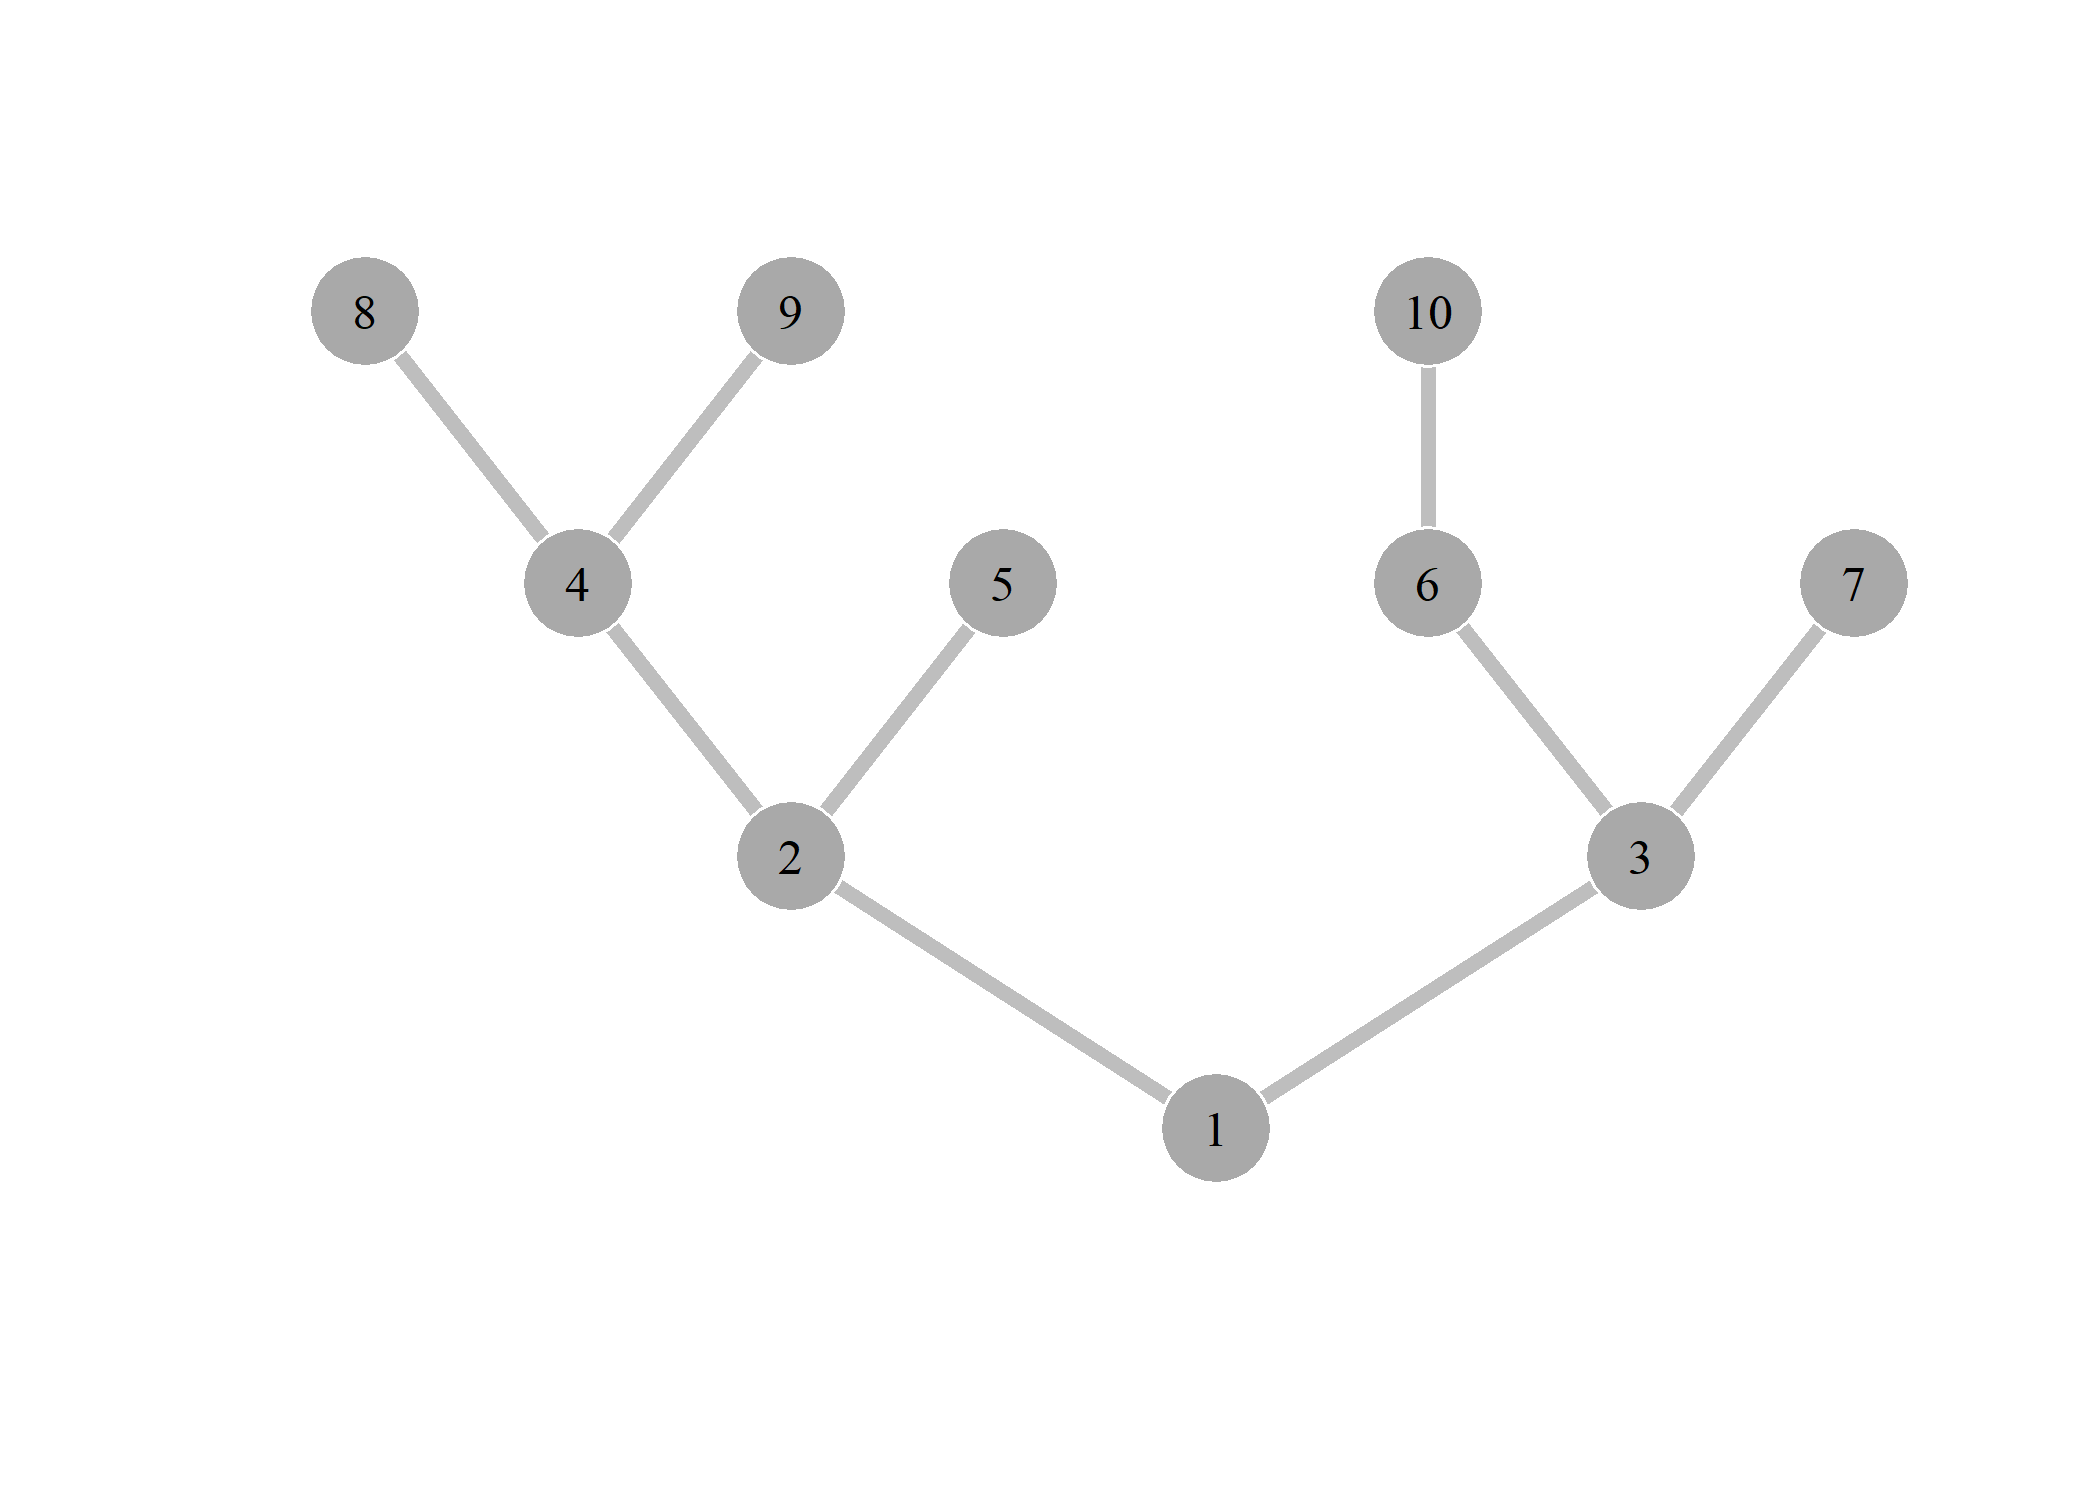
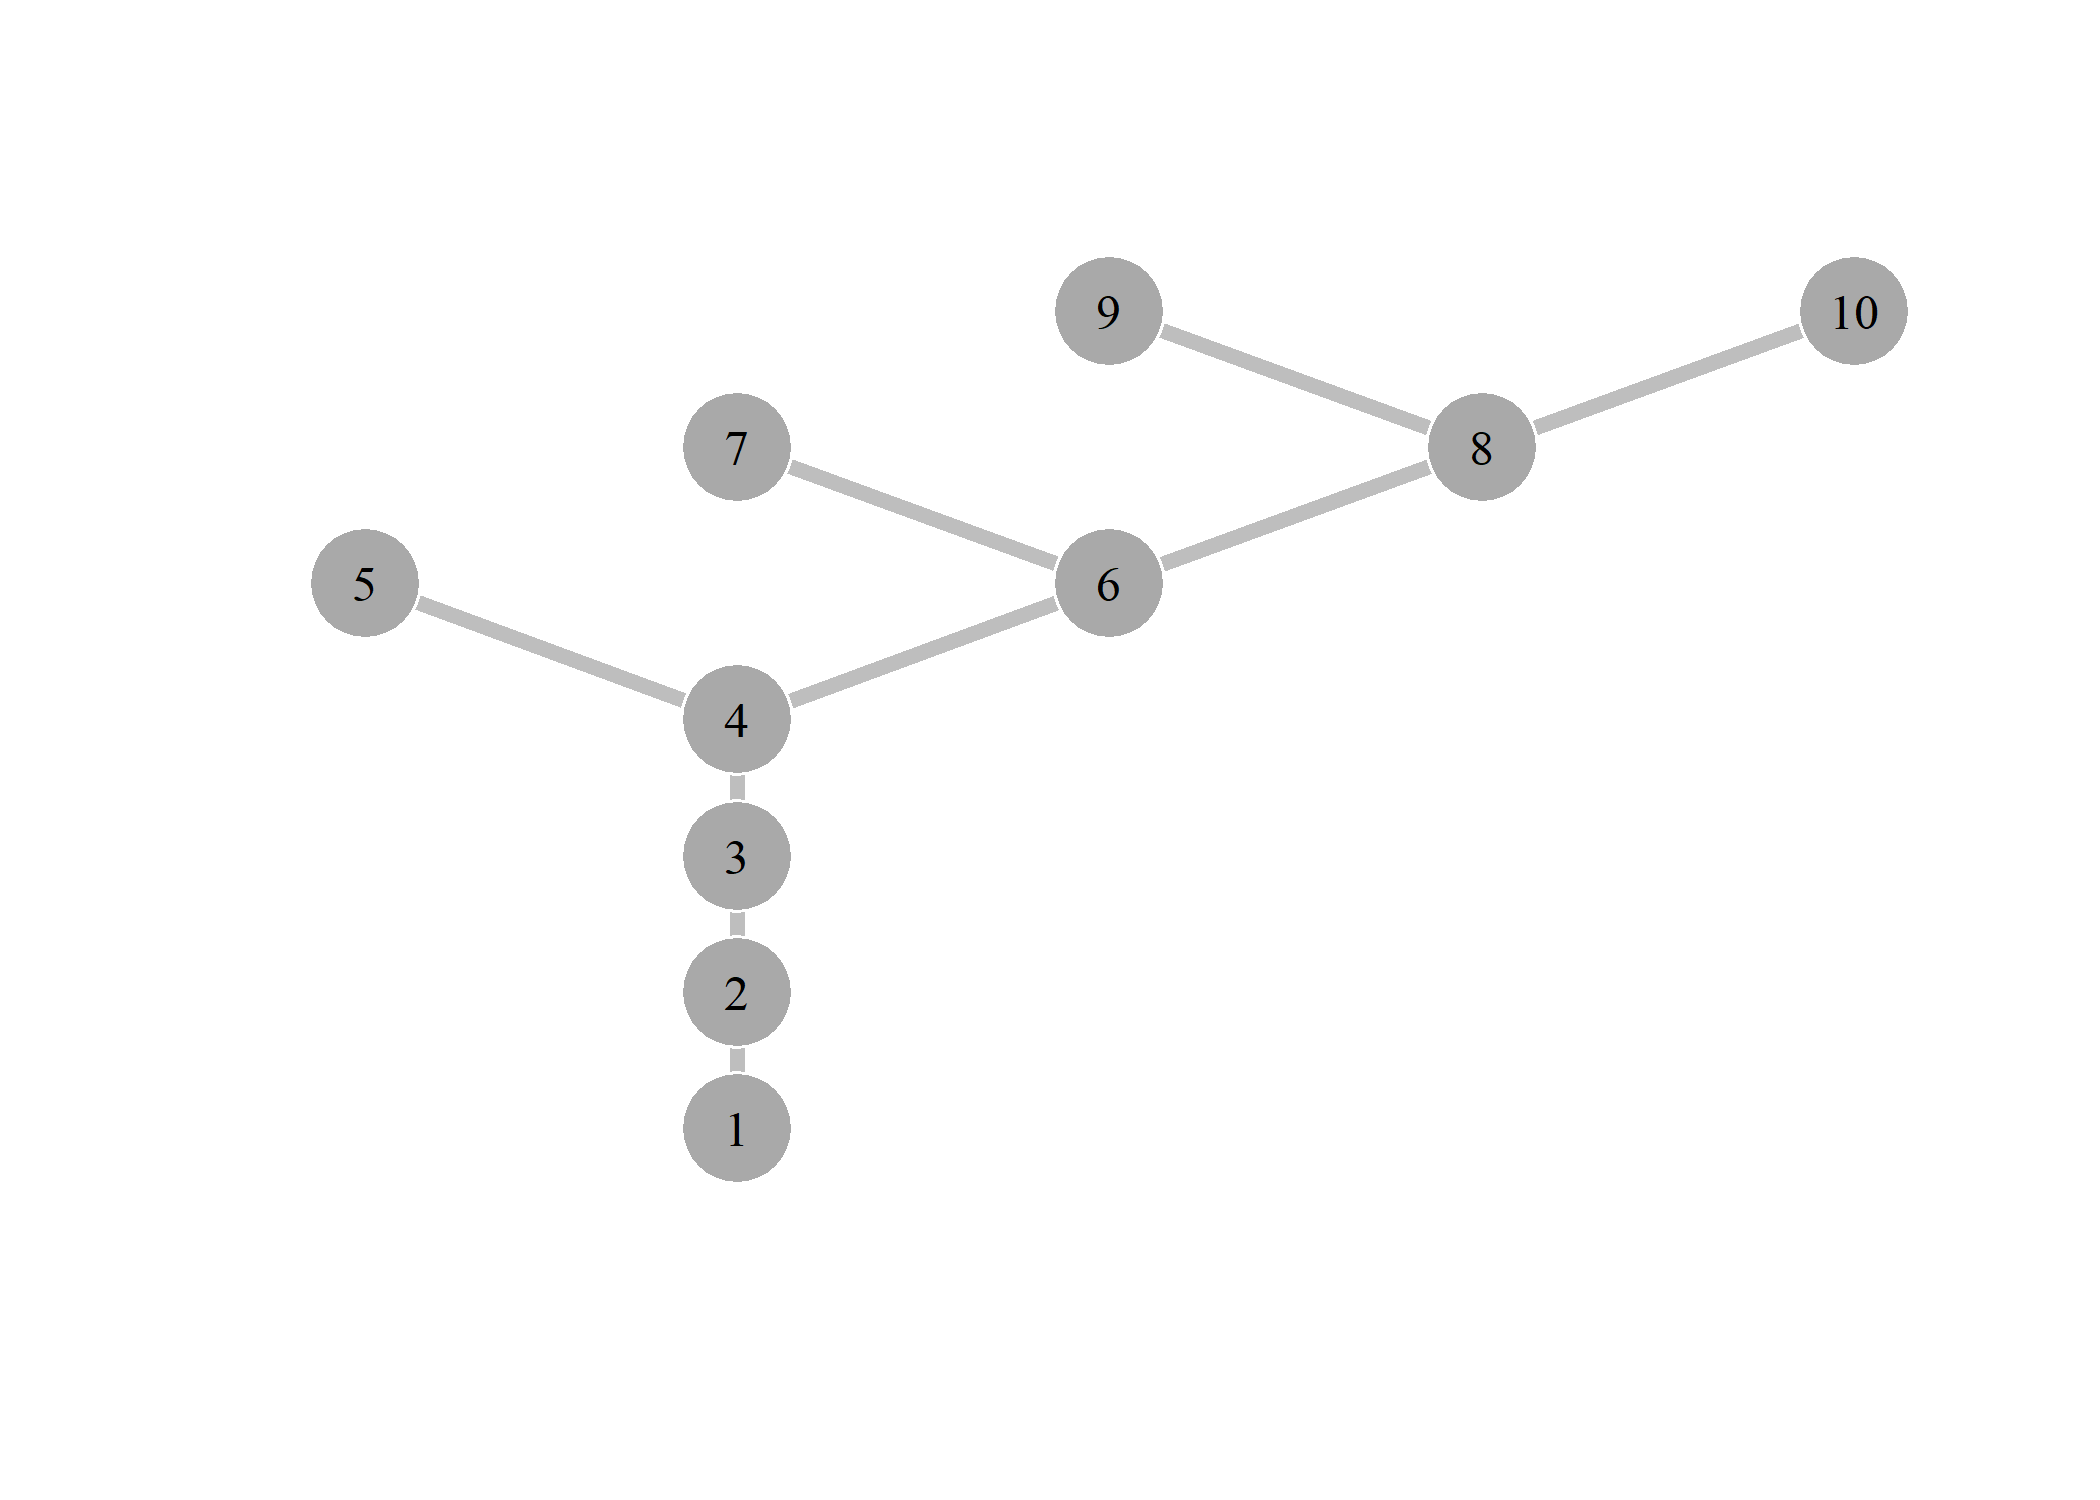
add fun_crtwk2 and documentation

diff --git a/README.md b/README.md
@@ -1,8 +1,6 @@
 
 <!-- README.md is generated from README.Rmd. Please edit that file -->
-
 <!-- badges: start -->
-
 <!-- badges: end -->
 
 A few functions used for creating and manipulating dendritic networks,
@@ -18,8 +16,9 @@ library(DenMet)
 ### Create a dendritic network with 10 nodes
 
 ``` r
-nwk <-  fun_crtNwk(10, "int")
-fun_pltNwk(nwk$ig, direct = "out", edge.arrow.size = 2)
+nwk <- DenMet::fun_crtNwk2(10, 0.5)
+nwk2 <- igraph::graph.adjacency(nwk)
+fun_pltNwk(nwk2, direct = "out", edge.arrow.size = 2)
 ```
 
 ![](man/figures/README-unnamed-chunk-3-1.png)<!-- -->
@@ -27,8 +26,8 @@ fun_pltNwk(nwk$ig, direct = "out", edge.arrow.size = 2)
 ### Downstream network, hide arrows
 
 ``` r
-g <- nwk$adjDwn
-g <- igraph::graph.adjacency(g)
+nwk <- DenMet::fun_convert_nwk(nwk, "dwn_adj")
+g <- igraph::graph.adjacency(nwk)
 fun_pltNwk(g, "in", edge.arrow.size = 0)
 ```
 
@@ -38,14 +37,14 @@ fun_pltNwk(g, "in", edge.arrow.size = 0)
 
 ``` r
 fun_strahler_order(g)
-#>  [1] 3 2 2 2 1 1 1 1 1 1
+#>  [1] 2 2 2 2 1 2 1 2 1 1
 ```
 
 ### Get downstream and upstream nodes of a given node
 
 ``` r
 fun_downstream_nodes(g, 8)
-#> [1] 1 2 4
+#> [1] 1 2 3 4 6
 fun_upstream_nodes(g, 2)
-#> [1] 4 5 8 9
+#> [1]  3  4  5  6  7  8  9 10
 ```

diff --git a/LICENSE.md b/LICENSE.md
@@ -1,0 +1,21 @@
+# MIT License
+
+Copyright (c) 2021 Finnbar Lee
+
+Permission is hereby granted, free of charge, to any person obtaining a copy
+of this software and associated documentation files (the "Software"), to deal
+in the Software without restriction, including without limitation the rights
+to use, copy, modify, merge, publish, distribute, sublicense, and/or sell
+copies of the Software, and to permit persons to whom the Software is
+furnished to do so, subject to the following conditions:
+
+The above copyright notice and this permission notice shall be included in all
+copies or substantial portions of the Software.
+
+THE SOFTWARE IS PROVIDED "AS IS", WITHOUT WARRANTY OF ANY KIND, EXPRESS OR
+IMPLIED, INCLUDING BUT NOT LIMITED TO THE WARRANTIES OF MERCHANTABILITY,
+FITNESS FOR A PARTICULAR PURPOSE AND NONINFRINGEMENT. IN NO EVENT SHALL THE
+AUTHORS OR COPYRIGHT HOLDERS BE LIABLE FOR ANY CLAIM, DAMAGES OR OTHER
+LIABILITY, WHETHER IN AN ACTION OF CONTRACT, TORT OR OTHERWISE, ARISING FROM,
+OUT OF OR IN CONNECTION WITH THE SOFTWARE OR THE USE OR OTHER DEALINGS IN THE
+SOFTWARE.
